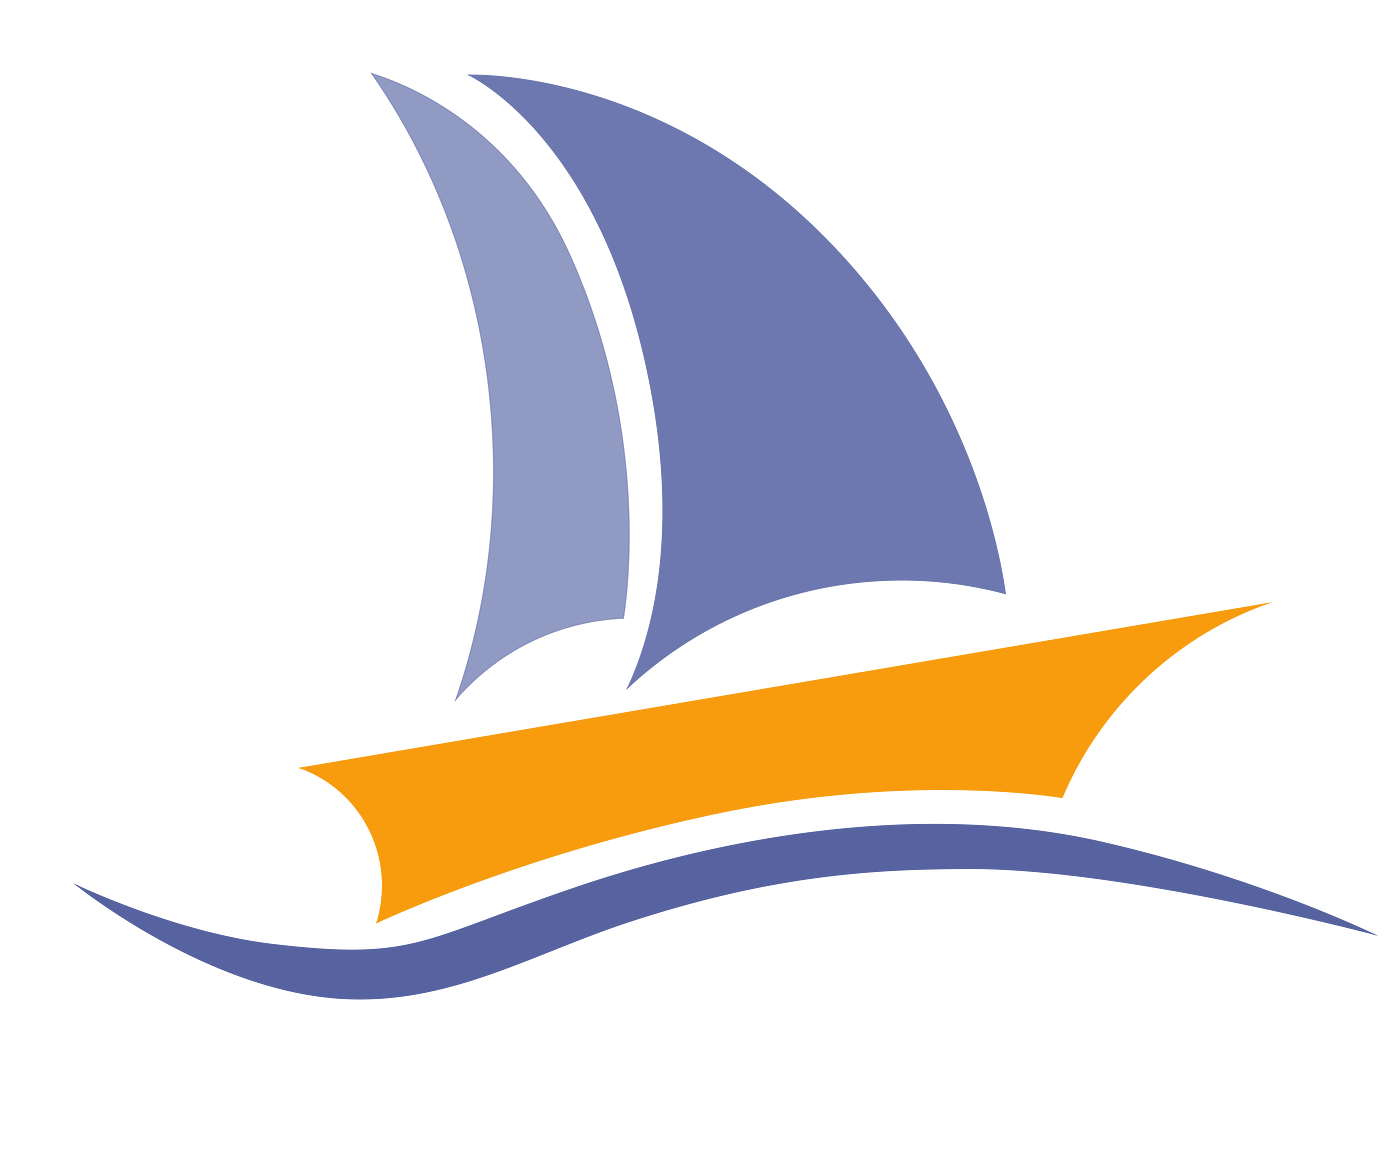
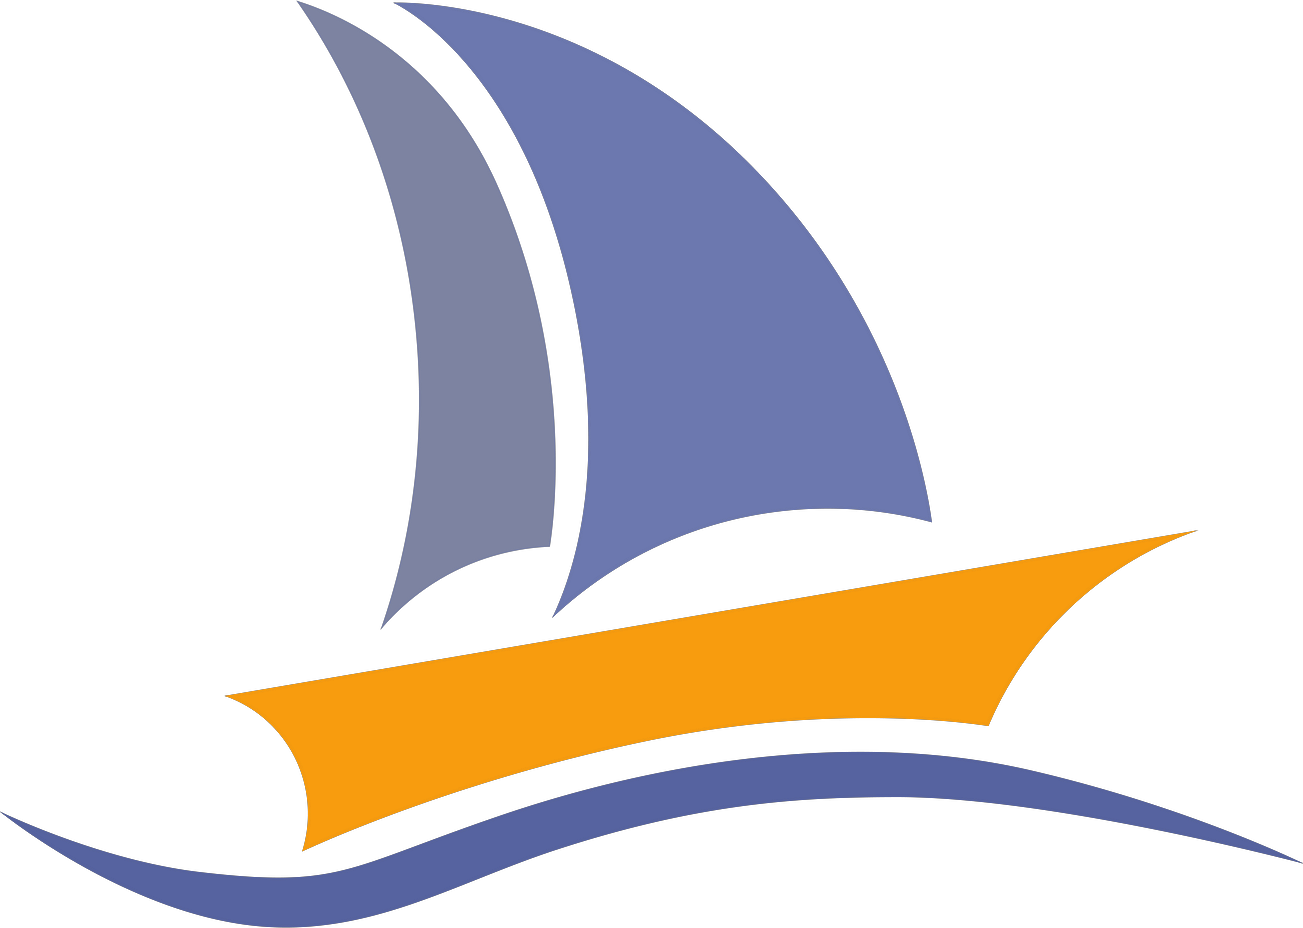
Added text content
- Added animations to all sections
- Added text to all sections
- Updated portrait photo
- Logo now matches color theme
- Fixed aside hide media query

diff --git a/src/Skills.js b/src/Skills.js
@@ -18,7 +18,8 @@ import myadmin from "./images/langs/myadmin.png";
 export default function Skills() {
     return (
         <section id={"section2"} className={"proj-container"}>
-            <h1 className={"code-type"} data-aos={"fade-right"} data-aos-once={"true"}><span style={{color: "limegreen"}}>2.</span> Skills</h1>
+            <div data-aos={"fade-up"} data-aos-once={"true"}>
+            <h1 className={"code-type"}><span style={{color: "limegreen"}}>2.</span> Skills</h1>
             <hr/>
             <div className={"d-block"}>
             <h3 className={"code-type mt-4 mb-4"}><span><i className="fa-regular fa-code"></i></span> Languages & Technologies</h3>
@@ -37,7 +38,7 @@ export default function Skills() {
                         </div>
                         <div className={"col-3"}>
                             <div className={"table-block"}><span className={"grid-helper"}></span><img src={react} alt={"react"}/></div>
-                            <div className={"table-block"}><span className={"grid-helper"}></span><img src={bootstrap} alt={"bootstrap"}/></div>
+                            <div className={"table-block"}><span className={"grid-helper"}></span><img src={cs} alt={"bootstrap"}/></div>
                             <div className={"table-block"}><span className={"grid-helper"}></span><img src={js} alt={"js"}/></div>
                         </div>
                     </div>
@@ -53,17 +54,28 @@ export default function Skills() {
                             like Python and Java in some of my personal projects.
                         </p>
                         <p>
-
+                            One of my favorite parts about software engineering is learning new languages. I am always learing a
+                            new language, and I am currently working on C++.
                         </p>
                     </div>
                 </div>
             </div>
             </div>
-            <div className={"d-block"}>
+            </div>
+            <div className={"d-block"} data-aos={"fade-up"} data-aos-once={"true"}>
             <h3 className={"code-type mb-4"} style={{marginTop: "8rem"}}><span><i className=" fa-light fa-screwdriver-wrench"></i></span> Tools</h3>
             <div className={"grid row ml-1"}>
                 <div className={"col-lg-6"}>
                     <div className={"skills-card p-4"}>
+                        <p>
+                            Throughout my years in creating software, I have had the opportunity to explore a variety
+                            of tools that are used in modern-day applications.
+                        </p>
+                        <p>
+                            I have worked on many projects using Git and Github, while also hosting some applications
+                            using an Ubuntu Linux server that I have at home. In many of my applications that require
+                            a database, I typically use PHP my admin as a front end for MySQL.
+                        </p>
                         <p>
                             Currently, I am focused on learning Amazon Web Services (AWS), as I know how big of a role cloud computing
                             plays in today's tech industry.

diff --git a/src/About.js b/src/About.js
@@ -1,28 +1,32 @@
-import portrait from "./images/portrait.png";
+import portrait from "./images/portrait.jpg";
 import Resume from "./misc/Meyer_CS_PSU_2022.pdf";
 import React from "react";
 
 export default function About() {
 return (
-    <section id={"section1"} style={{width: '60%', maxWidth: '1000px'}} className={"mt-0"}>
+    <section id={"section1"} style={{width: '60%', maxWidth: '1000px'}} className={"mt-0"} data-aos={"fade-up"} data-aos-once={"true"}>
         <div className={"row"}>
             <div className={"col-8"}>
-                <h1 className={"code-type"} data-aos={"fade-right"} data-aos-once="true"><span
+                <h1 className={"code-type"}><span
                     style={{color: 'limegreen'}}>1.</span> About Me</h1>
                 <hr/>
                 <p>
-                    Hello, my name is Jacob Meyer and I am a student who has a passion for programming.
-                    I am currently a sophomore studying computer science at Penn State University. After college,
-                    I am looking forward to having a great career in the tech field.
+                    Hello! My name is Jacob Meyer and I enjoy creating software for others to use. My interest in
+                    creating apps started in high school, where I learned to code to make online school easier
+                    and more enjoyable for students. Through the years, I have gained experience in designing applications
+                    from simple landing pages all the way to full scale applications. I am always eager to learn new
+                    things and find ways to improve my code to provide seamless user experiences.
                 </p>
                 <p>
-                    In my free time, I enjoy creating software for other people to use. I have created a number of
-                    apps and programs over the past few years, all of which I keep open source on my github page.
-                    I am currently searching for a Software Engineering internship position for Summer 2024, and I am
-                    excited to learn and grow in tech.
+                    Currently, I am in my second year at Penn State University, where I am studying computer science.
+                    I am searching for a Software Engineering Internship for the Summer of 2024, if you
+                    are interested in hiring, feel free to contact me via email or LinkedIn.
+                    After college, I would like to have a career in back-end web-development, where I can create
+                    efficient, scalable code for others to enjoy.
                 </p>
                 <p>
-                    Here are some of the technologies I have worked with in my projects:
+                    When I am not in front of my computer, I like to stay active by playing tennis or going to the gym.
+                    I also like to play video games and watch movies or TV shows (back to the computer again).
                 </p>
             </div>
             <div className={"col-4 img-frame"}>

diff --git a/src/Projects.js b/src/Projects.js
@@ -31,8 +31,11 @@ export default function Projects() {
                 <div className={"col-sm-12 col-lg-4"}>
                     <Project
                         title={"Portfolio Website"}
-                        descr={"Lorem ipsum lorem ipsum lorem ipsum lorem ipsum lorem ipsum lorem ipsum lorem ipsum" +
-                            "lorem ipsum"}
+                        descr={"This is the site that you are on right now! It is digital portfolio with the purpose" +
+                            " of showcasing what I have been working on as well as my up-to-date skills. " +
+                            " It provides my contact info and makes getting in touch with me more accessable" +
+                            " This project used a variety of front-end and back-end languages, and is one of my" +
+                            " favorite projects."}
                         img={portfolio}
                         imgPath={"./images/portfolio.png"}
                         langs={"React.js, Node.js, JavaScript, HTML, CSS"}
@@ -43,6 +46,11 @@ export default function Projects() {
                 <div className={"col-sm-12 col-lg-4"}>
                     <Project
                         title={"Zoom Meeting Organizer"}
+                        descr={"A desktop application for automatically opening up zoom calls when they are scheduled" +
+                            " to start, and closing them when they are scheduled to close. This application" +
+                            " Makes online schooling easier by creating an organized list of calls each day" +
+                            " I creating this application with the aim of assisting students who take many online classes, and have to juggle around" +
+                            " a bunch of zoom links each day."}
                         img={zoom}
                         langs={"Python, Zoom API"}
                         github={""}
@@ -52,6 +60,11 @@ export default function Projects() {
                 <div className={"col-sm-12 col-lg-4"}>
                     <Project
                         title={"ZuzaPlan"}
+                        descr={"ZuzaPlan is a desktop event management application that makes it easy for a busy person to stay" +
+                            " organized. It has an event calendar for each month, and lets the user add new events." +
+                            " ZuzaPlan also has an online meeting organizer similar to the Zoom application." +
+                            " In this project, I lead a small group of students on both the front-end and back-end." +
+                            " This app was a great learning experience for me and taught me the ins and outs of C#."}
                         img={zuzaplan}
                         langs={"C#, Visual Basic"}
                         github={"https://github.com/Bubbycolditz/ZuzaPlan-OLD"}

diff --git a/src/App.css b/src/App.css
@@ -42,7 +42,6 @@ nav {
   display: block;
   width: 100%;
   z-index: 2;
-  /*background-color: var(--primary);*/
   background-color: #061e03;
   border-bottom: 2px solid #fff;
 }
@@ -62,7 +61,7 @@ nav a:hover {
 
 nav ul {
   min-height: 48px;
-  width: auto;
+  /*width: auto;*/
   text-align: center
 }
 
@@ -130,6 +129,7 @@ hr {
   min-width: 20px;
   -webkit-box-shadow: 3px 5px 8px 0 rgba(0, 0, 0, 0.25), 0 6px 20px 0 rgba(0, 0, 0, 0.19);
   box-shadow: 3px 5px 8px 0 rgba(0, 0, 0, 0.25), 0 6px 20px 0 rgba(0, 0, 0, 0.19);
+  border-radius: 6px;
 }
 
 .proj-container {
@@ -283,7 +283,7 @@ aside i:hover {
   top: -5px;
 }
 
-@media (max-width: 1050px) {
+@media (max-width: 1250px) {
   aside {
     display: none;
   }
@@ -379,6 +379,16 @@ footer {
 
 .modal-title {
   color: var(--accent);
+}
+
+.modal-body {
+  padding: 30px;
+}
+.modal-header {
+  border-bottom: 2px solid #229122;
+}
+.modal-footer {
+  border-top: 2px solid #229122;
 }
 
 /* The typing effect */

diff --git a/src/App.js b/src/App.js
@@ -2,7 +2,8 @@ import Nav from "./Nav";
 import React, { useEffect } from "react";
 import Aos from "aos";
 import "./misc/aos.scss";
-import blank from "./images/blank.png";
+// import blank from "./images/blank.png";
+import portrait from "./images/portrait.jpg"
 import About from "./About";
 import Skills from "./Skills";
 import Projects from "./Projects";
@@ -45,7 +46,7 @@ function App() {
                   </div>
               </div>
               <div className={"col-lg-4"}>
-                  <img id={"portrait"} className={"img-fluid"} src={blank} alt={"portrait"} width={"300vw"}/>
+                  <img id={"portrait"} className={"img-fluid"} src={portrait} alt={"portrait"} width={"300vw"}/>
               </div>
           </div>
       </header>

diff --git a/src/Modal.js b/src/Modal.js
@@ -9,7 +9,7 @@ export default function Modal() {
                 </div>
                 <div className="modal-body">
                     <p id={"modal-descr"}></p>
-                    <h6 id={"modal-langs"} className={"code"} style={{color:"#bebebe"}}></h6>
+                    <h6 id={"modal-langs"} className={"code mt-4"} style={{color:"#bebebe"}}></h6>
                 </div>
                 <div className="modal-footer">
                     <div className={"d-flex justify-content-between"} style={{width:"20%", maxWidth:"50px", marginRight: "5%"}}>

diff --git a/src/Nav.js b/src/Nav.js
@@ -1,5 +1,6 @@
 import React from "react";
 import Resume from "../src/misc/Meyer_CS_PSU_2022.pdf"
+import logo from "./images/logo.svg";
 export default function Nav() {
     let prevScrollPos = window.scrollY;
     window.onscroll = function() {
@@ -12,7 +13,6 @@ export default function Nav() {
         prevScrollPos = currentScrollPos;
     }
     return  (
-
         <nav id={'navbar'}>
             <ul>
                 <li><a href={"#section1"}>About Me</a></li>
